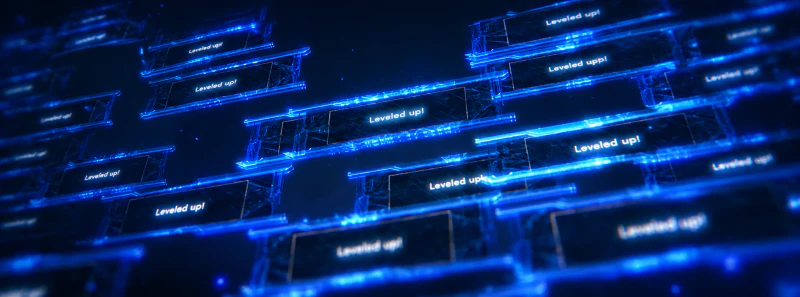
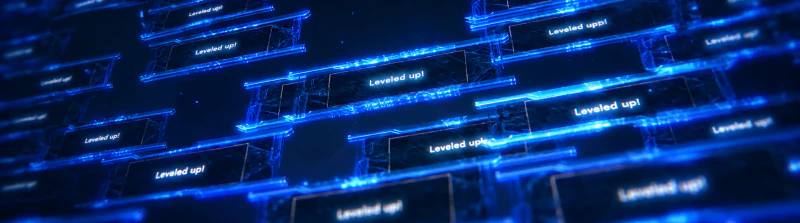
feat: fix ui

diff --git a/packages/core/src/duels.ts b/packages/core/src/duels.ts
@@ -48,7 +48,7 @@ import { addXp, awardSolveXp, defaultNickname } from './profile'
 import { collectQuestsQuietly } from './quests'
 import { sendPush, type PushLang } from './push'
 import { duelSeed, focusFor, shotFor } from './crop'
-import { markSeasonDuel } from './season'
+import { markSeasonDuel, markSeasonSolved } from './season'
 import { openDex, cardXpFor } from './dex'
 
 export const MIN_GAP_MS = 800
@@ -977,6 +977,7 @@ export async function settle(duel: DuelDoc): Promise<DuelDoc> {
   if (!turnMode(duel)) {
     await Promise.all(guessed.map((side) => openDex(side.userId, duel.game, duel.answerId, { mode: duel.mode as ModeId, xp: cardXpFor(duel.mode as ModeId, { pool }) })))
     if (guessed.length) await (await users()).updateMany({ _id: { $in: guessed.map((side) => side.userId) } }, { $inc: { duelSolved: 1 } })
+    await Promise.all(guessed.map((side) => markSeasonSolved(side.userId, at)))
   }
   await Promise.all(guessed.map(async (side) => awardSolveXp(await users(), side.userId, duel.mode as ModeId, 'endless', pool, duel.game && duel.answerId !== undefined ? { game: duel.game, id: duel.answerId } : undefined)))
   await Promise.all(masters.map((side) => collectQuestsQuietly(side.userId)))

diff --git a/apps/web/src/Profile.tsx b/apps/web/src/Profile.tsx
@@ -1093,8 +1093,9 @@ export default function Profile({ id }: { id?: string }) {
                     <ul className="modes-list">
                       {MODES.filter((mode) => mode.id !== 'clue').map((mode) => {
                         const row = summary?.modes.find((item) => item.mode === mode.id)
-                        const played = row?.played ?? 0
-                        const share = percent(row?.won ?? 0, played)
+                        const duel = summary?.duels?.modes?.find((item) => item.mode === mode.id)
+                        const played = (row?.played ?? 0) + (duel?.played ?? 0)
+                        const share = percent((row?.won ?? 0) + (duel?.wins ?? 0), played)
                         return (
                           <li key={mode.id} className={played ? '' : 'is-empty'}>
                             <span className="mode-name">{t(mode.label)}</span>

diff --git a/packages/core/src/season.ts b/packages/core/src/season.ts
@@ -93,6 +93,15 @@ export async function markSeasonDuel(userId: ObjectId, won: boolean, now = new D
   )
 }
 
+export async function markSeasonSolved(userId: ObjectId, now = new Date()) {
+  const season = seasonAt(now)
+  await (await seasons()).updateOne(
+    { _id: key(season.id, userId) },
+    { $inc: { solved: 1 }, $setOnInsert: { season: season.id, userId, xp: 0, days: [] } },
+    { upsert: true },
+  )
+}
+
 export const previousSeason = (now = new Date()): Season => seasonAt(new Date(seasonAt(now).from.getTime() - 86_400_000))
 
 export async function seasonStanding(seasonId: string, limit = 100) {

diff --git a/apps/web/src/banners.ts b/apps/web/src/banners.ts
@@ -9,7 +9,7 @@ const LIVE: Record<string, { spot?: string; clips: string[] }> = {
 
 export const isLive = (id: string) => id in LIVE
 
-const REDRAWN: Record<string, number> = { blockhome: 3, moonvortex: 3, moonfield: 2, ronaldo: 2 }
+const REDRAWN: Record<string, number> = { blockhome: 3, moonvortex: 3, moonfield: 2, ronaldo: 2, castle: 3, poppies: 3, pain: 3, levelup: 3, snakes: 3 }
 
 const SPOTS: Record<string, string> = { moonfield: 'center 88%' }
 

diff --git a/apps/web/src/styles.css b/apps/web/src/styles.css
@@ -820,6 +820,7 @@ a {
   place-items: center;
   background: var(--accent);
   color: #0d0f12;
+  color: oklch(from var(--accent) clamp(0.16, (l - 0.45) * -1000, 1) 0 0);
   font-family: var(--display);
   font-weight: 800;
   font-size: 16px;

diff --git a/apps/web/src/styles/profile.css b/apps/web/src/styles/profile.css
@@ -693,7 +693,7 @@
 }
 
 .profile-hero.is-bare .profile-stage {
-  margin-top: 22px;
+  margin-top: 72px;
 }
 
 .profile-hero.is-bare .profile-canvas > .profile-hero-body {
